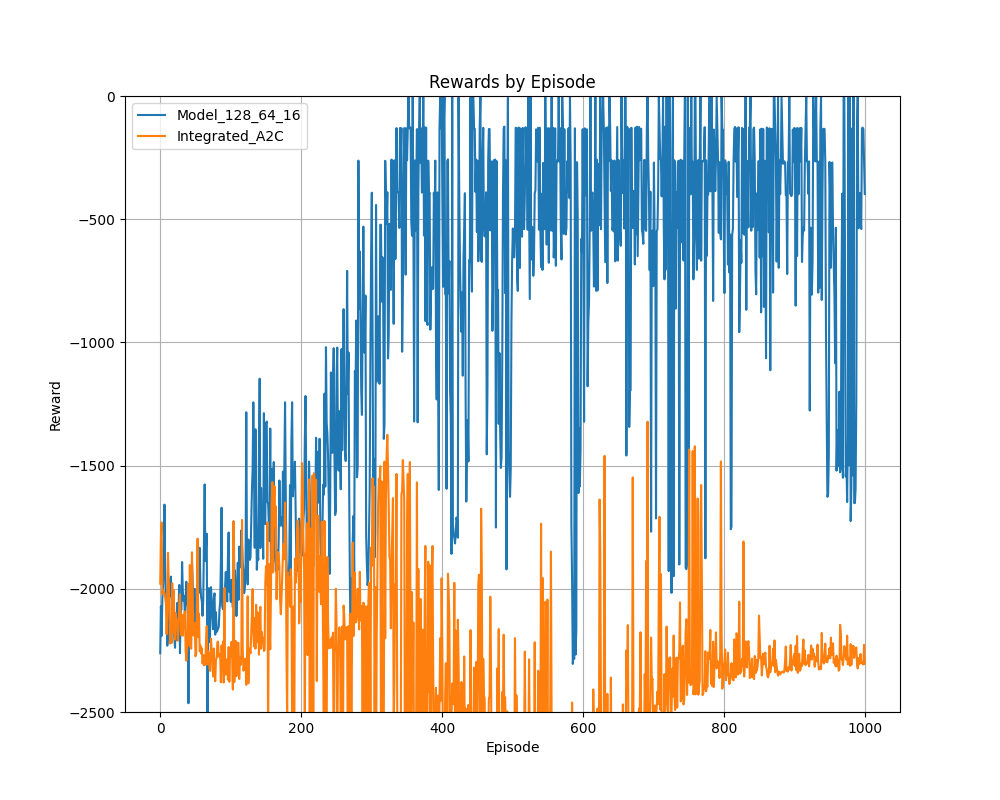
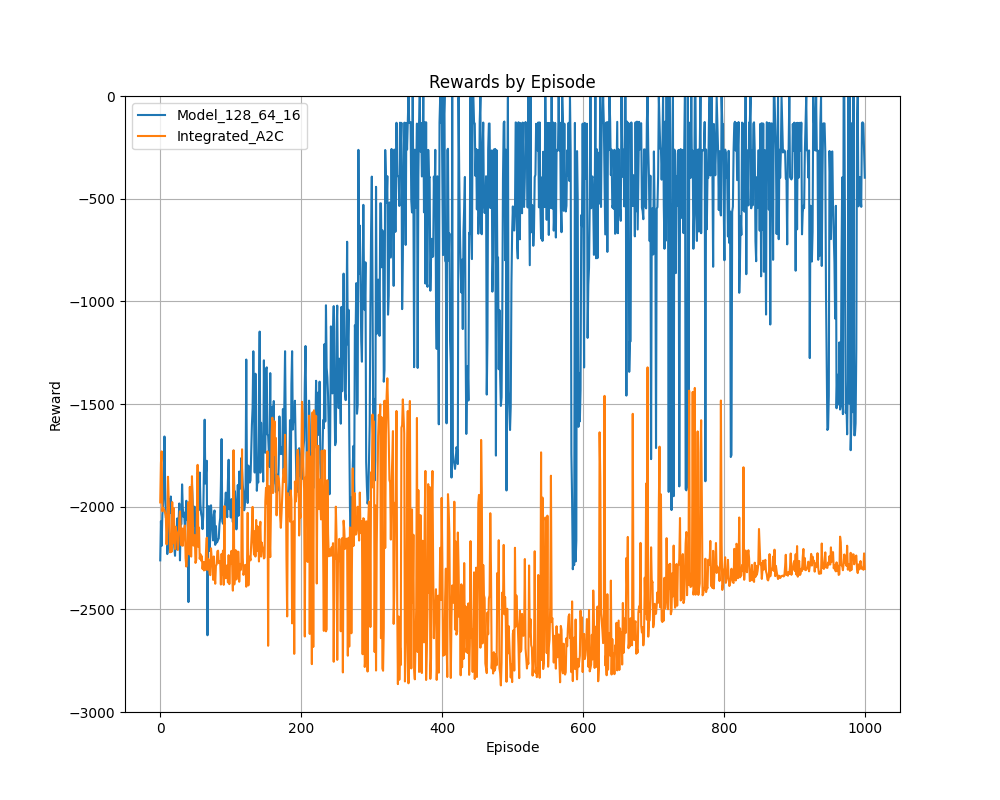
.

diff --git a/a2c/a2c_draw_plot.py b/a2c/a2c_draw_plot.py
@@ -47,7 +47,7 @@ def draw_total_plot(data, title, xlabel, ylabel, filename):
     custom_palette = sns.color_palette("Paired", 12)
     for model_name in data.columns[2:]:
         sns.lineplot(data, x = 'episodes', y = model_name, ax=ax, label=model_name, palette=custom_palette)
-    ax.set_ylim(-2500, 0)
+    ax.set_ylim(-3000, 0)
     ax.set(xlabel=xlabel, ylabel=ylabel, title=title)
     ax.grid()
     fig.savefig(filename)
@@ -67,7 +67,8 @@ def draw_total_plot(data, title, xlabel, ylabel, filename):
 def main():
     """Load rewards from file and draw plot."""
     #reward_paths = Path('a2c/Results').rglob('Model*/*reward.txt')
-    reward_paths = Path('a2c/Results/Integrated_A2C').rglob('*reward.txt')
+    #reward_paths = Path('a2c/Results/Integrated_A2C').rglob('*reward.txt')
+    reward_paths = Path('a2c/Results').rglob('*.reward.txt')
     for path in reward_paths:
         load_and_draw(path, 'Rewards by Episode', 'Episode', 'Reward', path.parent.name, path.with_suffix('.png'))
     
